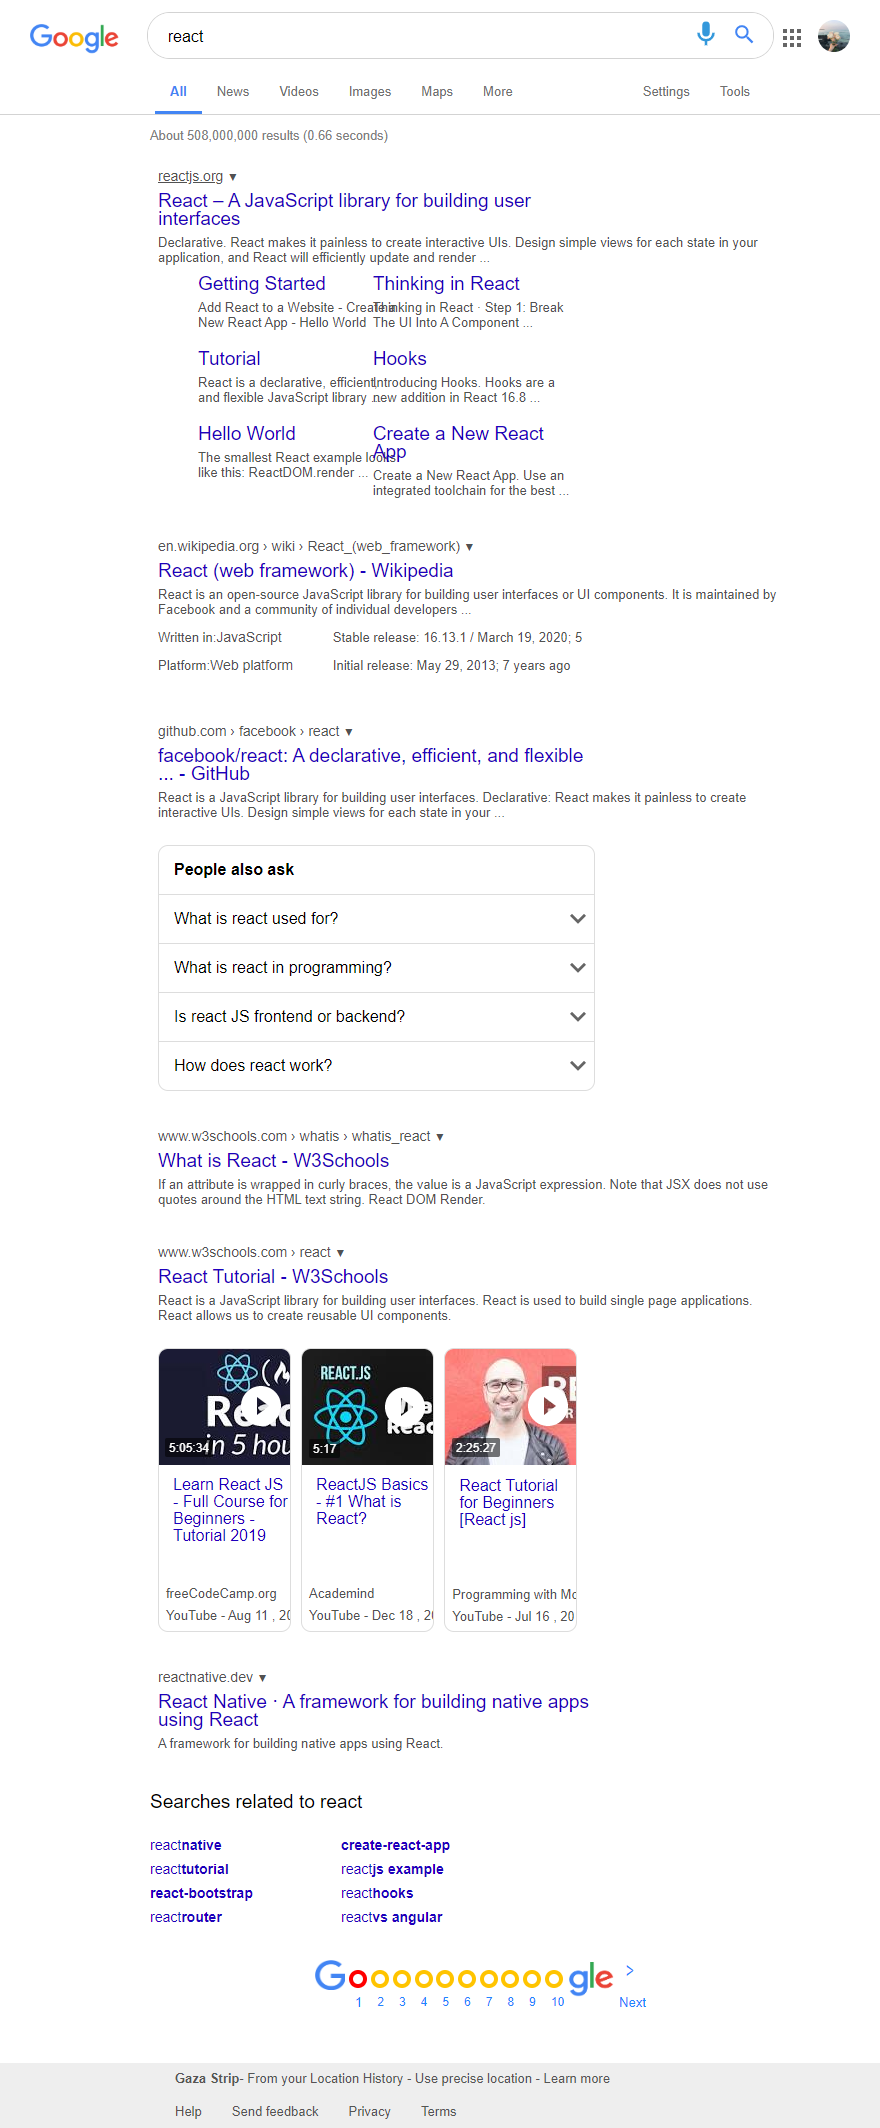
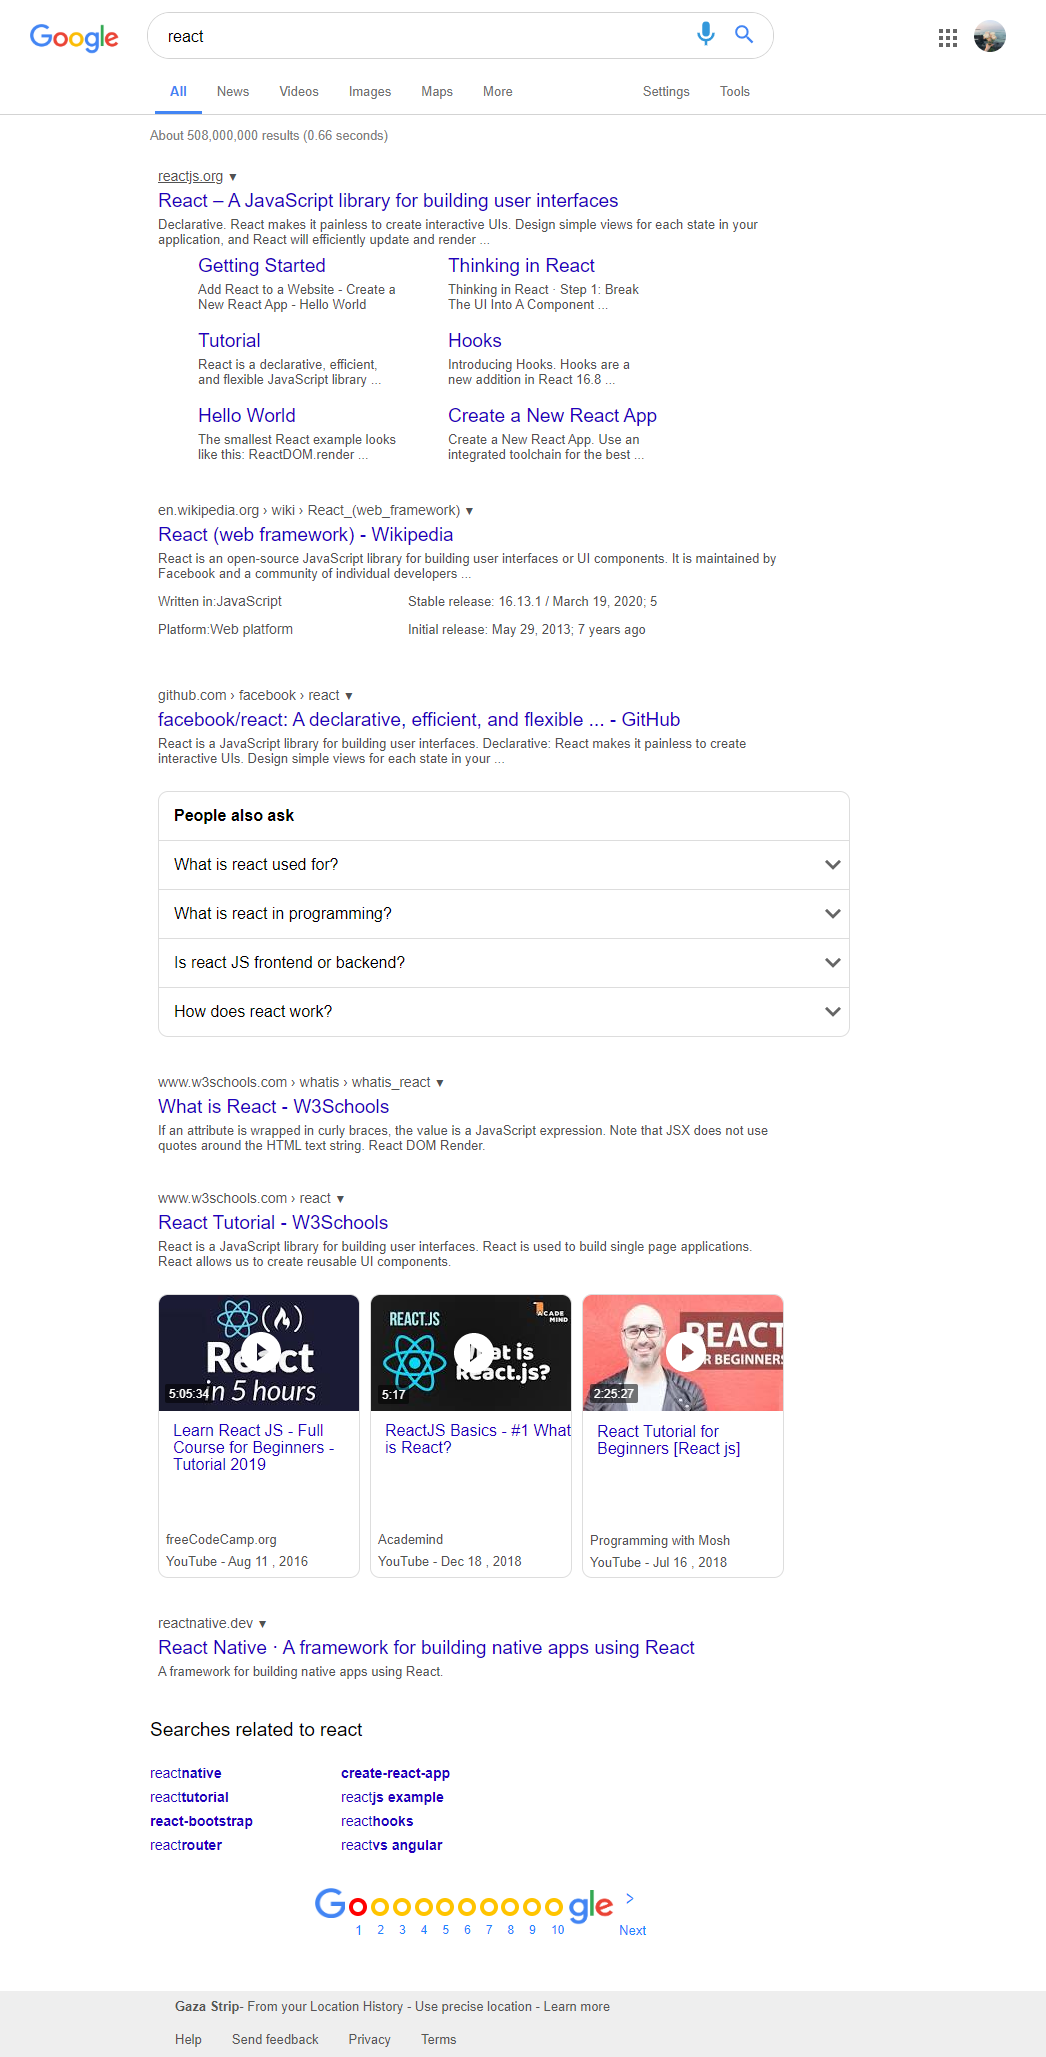
edit flex-box

diff --git a/style.css b/style.css
@@ -134,7 +134,7 @@ body {
 #searchresultsarea {
     margin-left: 150px;
     font-family: 'Arial';
-    width: 50%;
+    width: 700px;
 }
 
 #searchresultsnumber {
@@ -177,7 +177,7 @@ body {
 .subBox_searchresult {
     display: flex;
     flex-wrap: wrap;
-    width: 100%;
+    width: 600px;
     margin: -10px 20px;
     padding: 0px 20px;
 }
@@ -185,13 +185,13 @@ body {
 .subBox2_searchresult {
     display: flex;
     flex-wrap: wrap;
-    width: 100%;
+    width: 650px;
 }
 
 .Videos_box {
     border: 1px solid #ddd;
     border-radius: 10px;
-    width: 30%;
+    width: 200px;
     margin-right: 10px;
     overflow: hidden;
 }
@@ -215,7 +215,7 @@ body {
 }
 
 .sub_searchresult {
-    width: 40%;
+    width: 250px;
 }
 
 .sub_searchresult .p1 {
